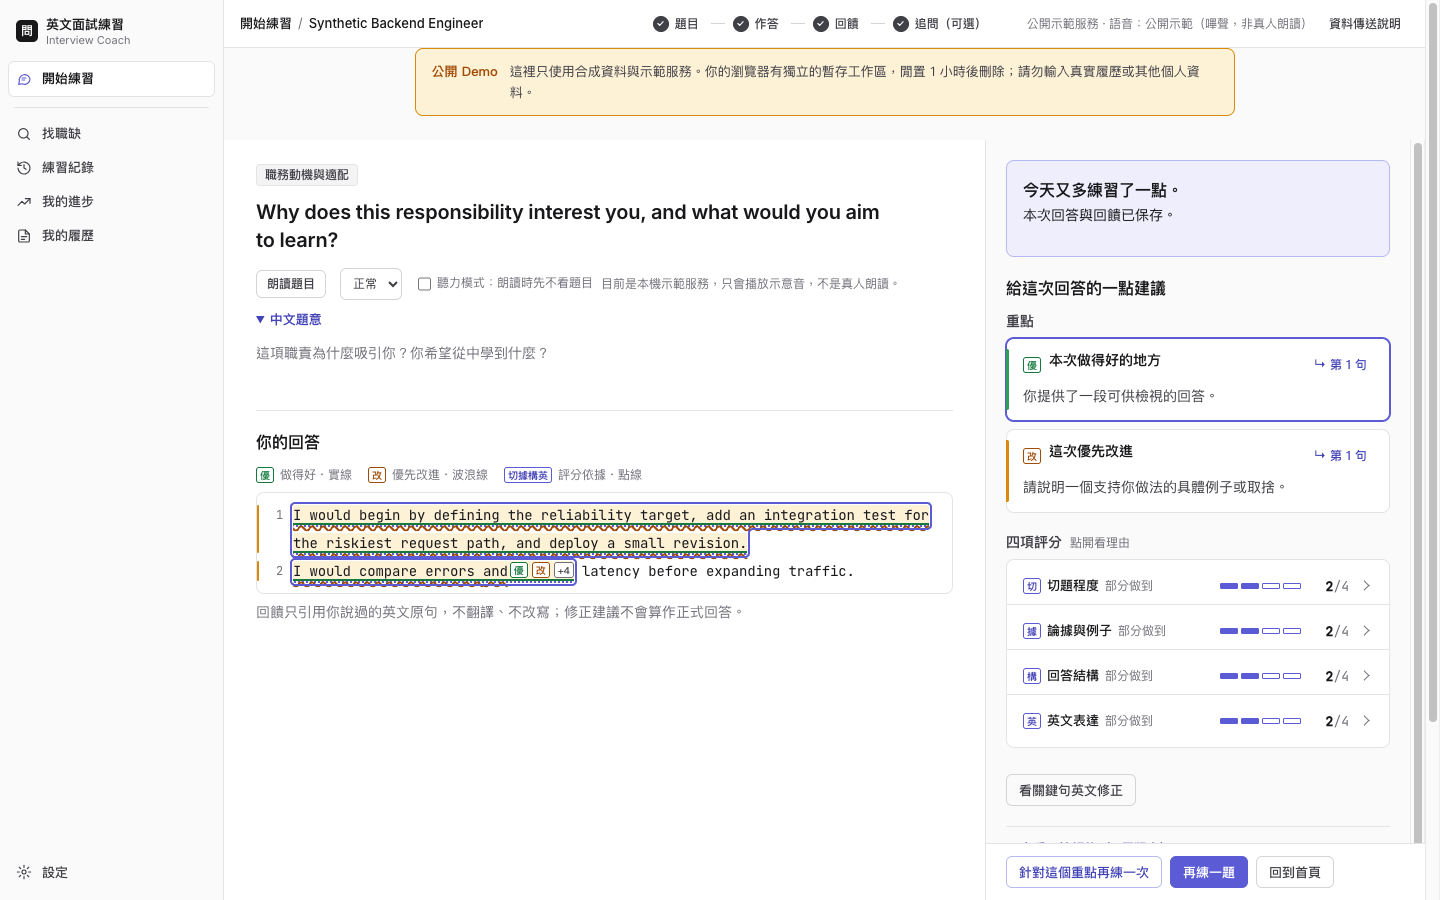
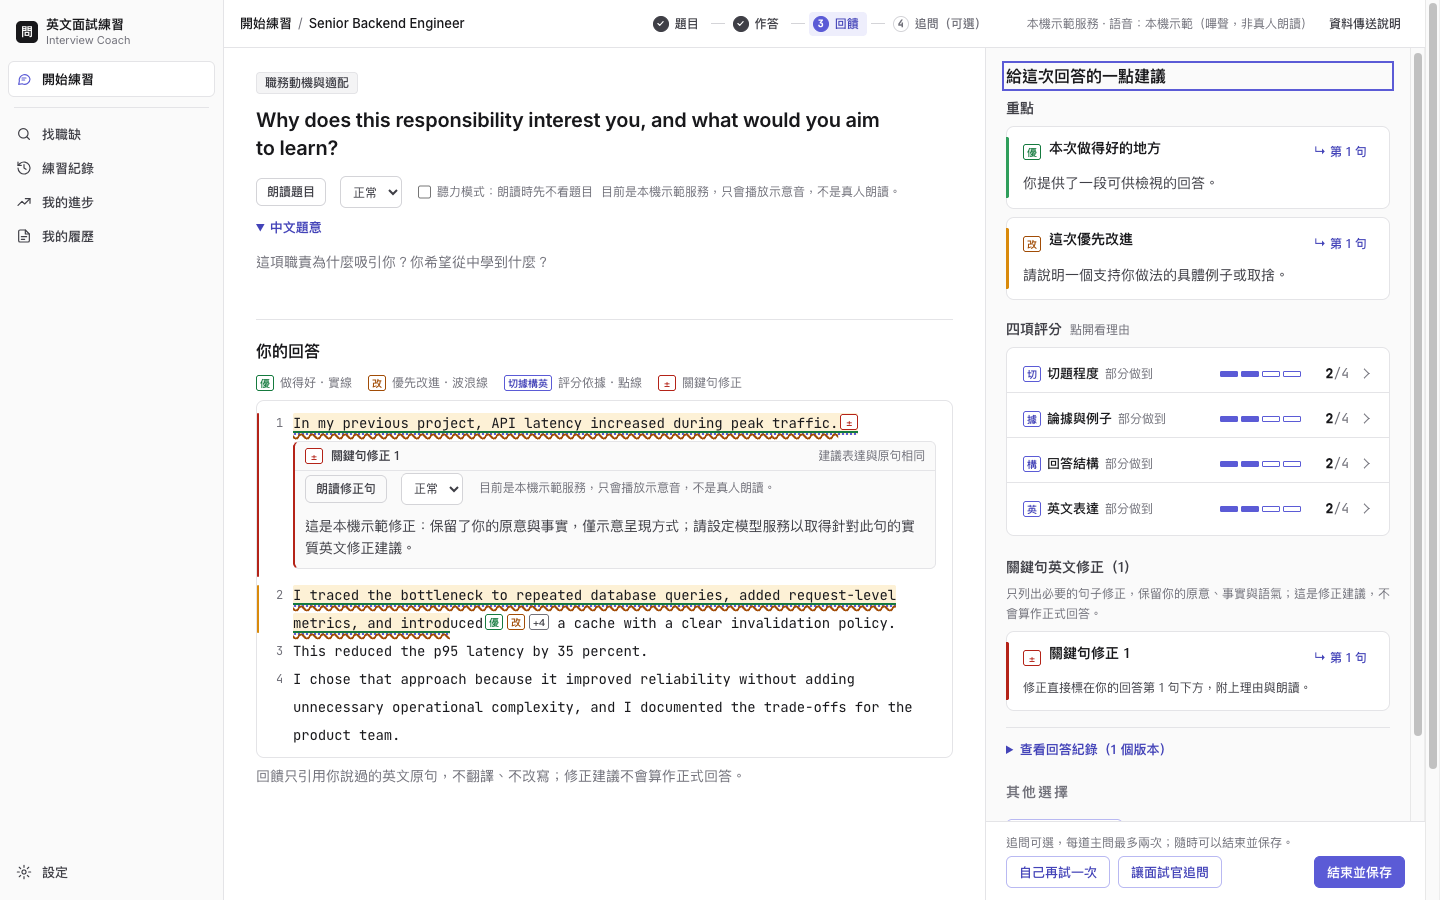
Add local portfolio walkthrough

diff --git a/README.md b/README.md
@@ -4,13 +4,19 @@ Adaptive English Interview Coach
 
 [![Checks](https://github.com/iamshiehpay/english-interview-practice/actions/workflows/checks.yml/badge.svg)](https://github.com/iamshiehpay/english-interview-practice/actions/workflows/checks.yml)
 
-[工程案例說明（英文）](PORTFOLIO.md) · [本機執行](#本機執行)
+[Engineering Case Study](PORTFOLIO.md) · [Run Locally](#本機執行)
 
 這是一個為台灣軟體與 AI 求職者設計的本機優先英文面試練習工具。它會依據職缺內容建立練習題目，讓使用者以文字或語音回答，並把回饋連結到回答中的原句，方便修改答案與安排下一次練習。
 
 ![完成一次英文面試練習後的逐字稿、引用式回饋與下一步練習重點](assets/portfolio/feedback-workbench.png)
 
 _本機固定資料畫面：完成練習後，可對照逐字稿、中文回饋、英文示範與下一步練習重點。_
+
+## 本機操作流程
+
+![從首頁回顧已完成的練習、查看原句引用，並延續同一個練習重點](assets/portfolio/demo-flow.gif)
+
+_15 秒操作錄影：使用一次性本機工作區與固定示範服務，不含 API key、真實履歷或個人資料。_
 
 ## 專案總覽
 
